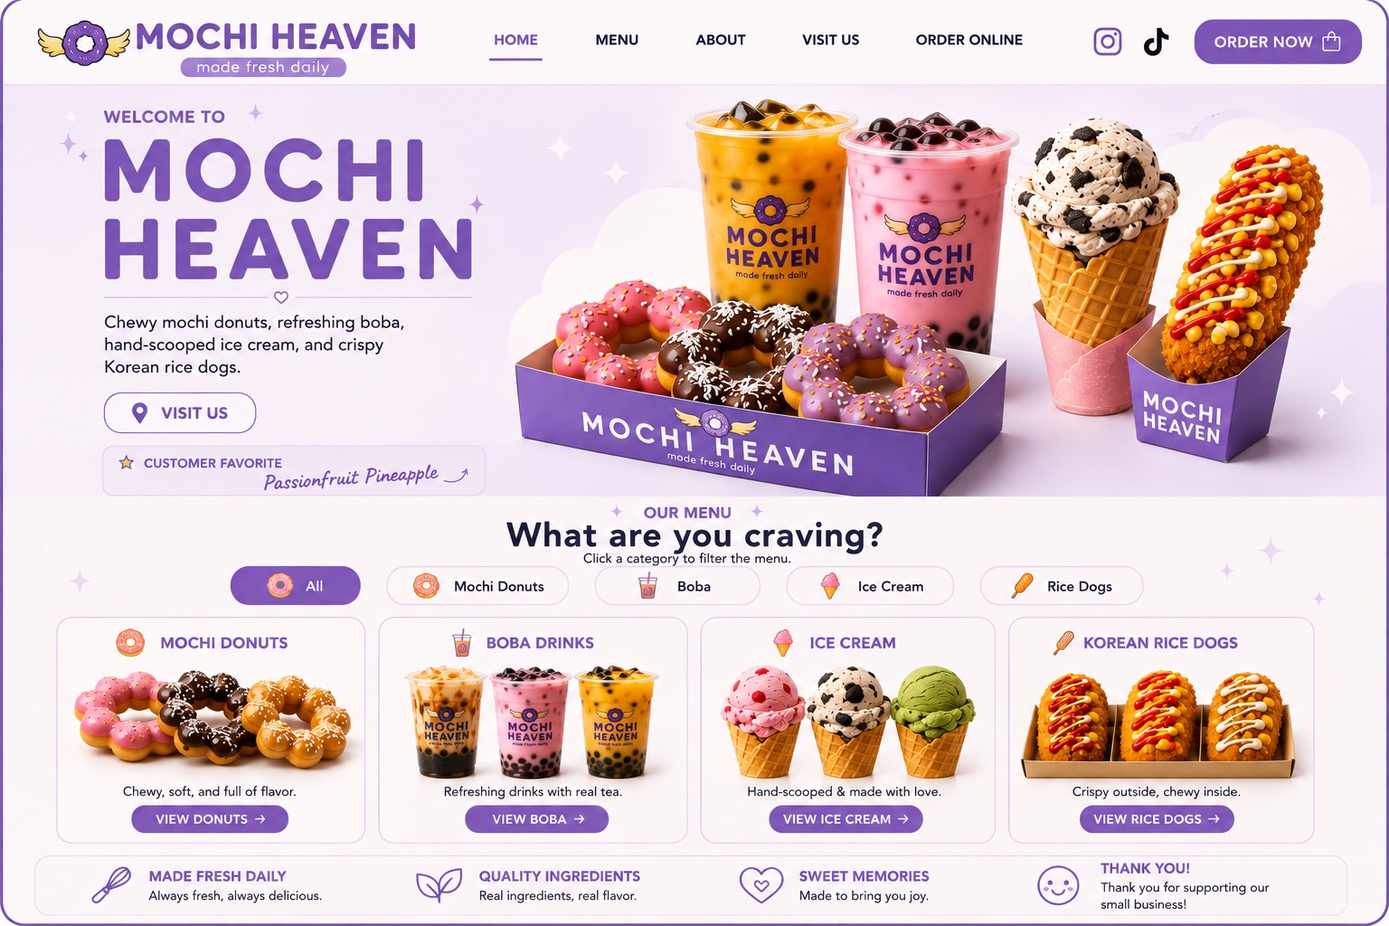
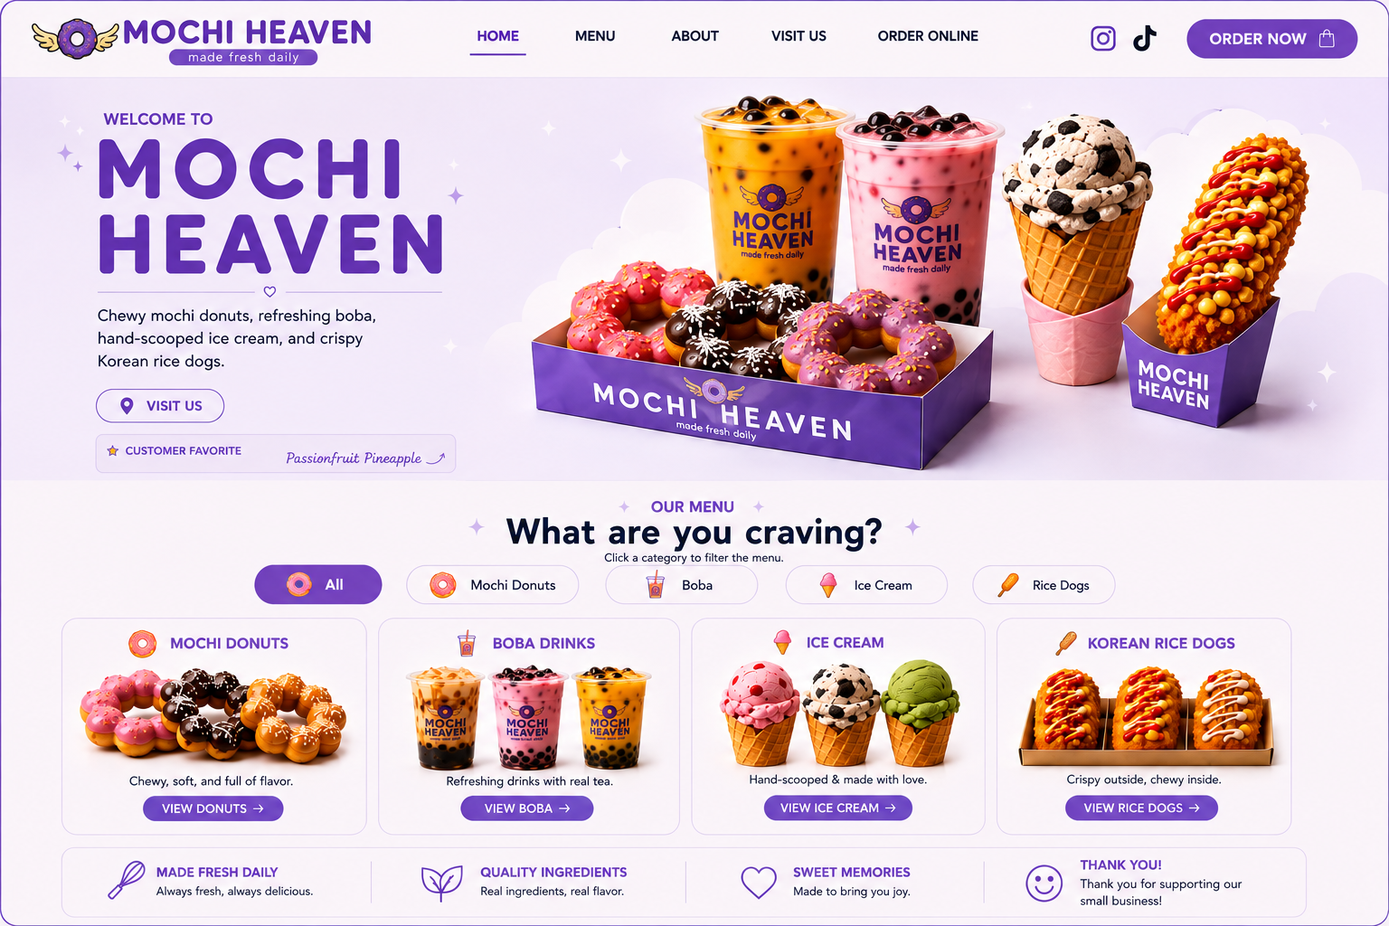
Add files via upload

diff --git a/styles.css b/styles.css
@@ -1,75 +1,10 @@
 *{box-sizing:border-box}
-html{scroll-behavior:smooth}
-body{margin:0;font-family:Arial,Helvetica,sans-serif;background:#fff;color:#211936}
-.pixel-page{width:100%;background:#f7f1ff}
-.design-wrap{position:relative;width:100%;max-width:1536px;margin:0 auto}
-.design-image{display:block;width:100%;height:auto}
-
-.hotspot{
-  position:absolute;
-  display:block;
-  border:0;
-  background:transparent;
-  padding:0;
-  margin:0;
-  cursor:pointer;
-  z-index:5;
-}
-.hotspot:focus-visible{outline:3px solid #ffcc33;outline-offset:2px;border-radius:8px}
-
-/* Top navigation */
-.home-link{left:35.2%;top:1.8%;width:6.3%;height:6.4%}
-.menu-link{left:42.2%;top:1.8%;width:6.1%;height:6.4%}
-.about-link{left:49.4%;top:1.8%;width:6.5%;height:6.4%}
-.visit-nav-link{left:57.2%;top:1.8%;width:7.4%;height:6.4%}
-.order-nav-link{left:65.4%;top:1.8%;width:10.8%;height:6.4%}
-
-/* Social + order */
-.instagram-link{left:78.1%;top:1.8%;width:3.4%;height:5.2%}
-.tiktok-link{left:81.9%;top:1.8%;width:3.2%;height:5.2%}
-.order-now-link{left:85.8%;top:1.7%;width:12.7%;height:5.6%}
-
-/* Hero Visit Us */
-.visit-hero-link{left:7.0%;top:42.0%;width:12.0%;height:5.3%}
-
-/* Category filters */
-.filter-all{left:16.3%;top:61.0%;width:9.9%;height:4.3%}
-.filter-donuts{left:27.7%;top:61.0%;width:13.5%;height:4.3%}
-.filter-boba{left:43.0%;top:61.0%;width:11.3%;height:4.3%}
-.filter-icecream{left:56.4%;top:61.0%;width:11.3%;height:4.3%}
-.filter-ricedogs{left:70.5%;top:61.0%;width:12.6%;height:4.3%}
-
-/* Menu buttons */
-.view-donuts{left:8.9%;top:87.0%;width:12.5%;height:3.8%}
-.view-boba{left:31.3%;top:87.0%;width:11.4%;height:3.8%}
-.view-icecream{left:54.5%;top:87.0%;width:12.3%;height:3.8%}
-.view-ricedogs{left:77.6%;top:87.0%;width:12.8%;height:3.8%}
-
-.content-section{padding:78px 24px;background:#fff}
-.content-section.alt{background:#f8f4ff}
-.content-card{width:min(1050px,100%);margin:0 auto}
-.content-card h2{font-size:42px;margin:0 0 12px;color:#5d35a5}
-.content-card p{font-size:18px;line-height:1.7;color:#6f6680}
-.eyebrow{font-weight:800;letter-spacing:.12em;color:#7f59c6;font-size:13px}
-.split{display:grid;grid-template-columns:1fr 1fr;gap:40px}
-.details{display:grid;grid-template-columns:1fr 1fr;gap:12px}
-.details div{border:1px solid #d8c7ef;border-radius:14px;padding:16px;display:grid;gap:4px}
-.details small{color:#7f59c6;font-weight:800}
-.real-button{border:0;border-radius:999px;padding:14px 24px;background:#7f59c6;color:#fff;font-weight:800;cursor:pointer}
-
-.modal{display:none;position:fixed;inset:0;z-index:100}
-.modal.open{display:block}
-.modal-backdrop{position:absolute;inset:0;background:rgba(32,16,60,.5);backdrop-filter:blur(4px)}
-.modal-card{position:relative;width:min(520px,calc(100% - 30px));margin:10vh auto;background:#fff;border-radius:24px;padding:30px;box-shadow:0 25px 70px rgba(20,10,40,.3)}
-.modal-close{position:absolute;right:16px;top:10px;border:0;background:transparent;font-size:32px;color:#5d35a5;cursor:pointer}
-.modal-card h2{font-size:36px;color:#5d35a5;margin:0 0 12px}
-.modal-row{display:flex;justify-content:space-between;gap:12px;padding:12px 0;border-bottom:1px solid #e4d8f7}
-
-/* Mobile: keep the exact design intact, scale it down instead of rearranging it */
-@media(max-width:760px){
-  .design-wrap{min-width:760px;transform-origin:top left}
-  .pixel-page{overflow-x:auto}
-  .content-section{padding:56px 20px}
-  .split{grid-template-columns:1fr}
-  .details{grid-template-columns:1fr}
-}
+:root{--purple:#7c55c7;--deep:#552b9f;--soft:#faf7ff;--line:#dcccf4;--ink:#211936;--muted:#70657d}
+html{scroll-behavior:smooth;scroll-padding-top:96px}body{margin:0;font-family:Arial,Helvetica,sans-serif;color:var(--ink);background:#fff}a{text-decoration:none;color:inherit}.page-shell{width:min(1180px,calc(100% - 36px));margin:auto}
+.home-body{background:#f7f1ff}.pixel-home{width:100%;overflow-x:hidden}.home-canvas{position:relative;width:100%;max-width:1536px;margin:auto}.home-image{display:block;width:100%;height:auto}.hotspot{position:absolute;z-index:5;display:block}.hotspot:focus-visible{outline:3px solid #ffc928;border-radius:8px}
+.hs-home{left:34.6%;top:2%;width:6.5%;height:6%}.hs-menu{left:42.5%;top:2%;width:6.5%;height:6%}.hs-about{left:50.2%;top:2%;width:6.7%;height:6%}.hs-visit{left:57.6%;top:2%;width:8.2%;height:6%}.hs-order-nav{left:66.3%;top:2%;width:11.2%;height:6%}.hs-instagram{left:78.2%;top:2%;width:3.2%;height:5.3%}.hs-tiktok{left:81.9%;top:2%;width:3.2%;height:5.3%}.hs-order{left:85.7%;top:1.7%;width:12.8%;height:5.8%}.hs-visit-hero{left:6.7%;top:41.4%;width:12.7%;height:5.5%}.hs-filter-all{left:18%;top:61.1%;width:9.5%;height:4.5%}.hs-filter-donuts{left:29.5%;top:61.1%;width:13.2%;height:4.5%}.hs-filter-boba{left:44.8%;top:61.1%;width:10.9%;height:4.5%}.hs-filter-icecream{left:57.3%;top:61.1%;width:12.2%;height:4.5%}.hs-filter-ricedogs{left:71.1%;top:61.1%;width:12.3%;height:4.5%}.hs-view-donuts{left:10.1%;top:86.3%;width:11.7%;height:4.2%}.hs-view-boba{left:33.2%;top:86.3%;width:11.5%;height:4.2%}.hs-view-icecream{left:56.4%;top:86.3%;width:12.4%;height:4.2%}.hs-view-ricedogs{left:78.8%;top:86.3%;width:12.6%;height:4.2%}
+.site-header{position:sticky;top:0;z-index:20;background:rgba(255,255,255,.96);backdrop-filter:blur(12px);border-bottom:1px solid var(--line)}.nav{min-height:82px;display:flex;align-items:center;justify-content:space-between;gap:24px}.text-logo{display:flex;align-items:center;gap:6px;font-weight:900;color:var(--deep);font-size:22px;letter-spacing:.04em;position:relative}.text-logo small{position:absolute;left:45px;top:47px;font-size:10px;background:var(--purple);color:#fff;padding:2px 12px;border-radius:999px}.donut-mark{color:var(--purple)}.page-nav{display:flex;gap:26px}.page-nav a{font-weight:800;font-size:14px}.page-nav a:hover{color:var(--purple)}.social-row{display:flex;align-items:center;gap:12px;font-size:23px}.purple-pill{font-size:13px;font-weight:900;text-transform:uppercase;color:#fff;background:linear-gradient(135deg,var(--purple),#925fcf);padding:12px 18px;border-radius:999px}.mobile-toggle{display:none;border:0;background:transparent;font-size:25px;color:var(--deep)}
+.menu-hero{padding:58px 0 42px;background:linear-gradient(135deg,#faf7ff,#eee4ff);text-align:center}.kicker{margin:0 0 8px;color:var(--purple);font-weight:900;letter-spacing:.12em;font-size:13px}.page-title{font-size:58px;line-height:1;margin:0 0 12px;color:var(--deep)}.page-subtitle,.page-copy{color:var(--muted);font-size:17px;line-height:1.7}.jump-nav{display:flex;justify-content:center;gap:12px;flex-wrap:wrap;margin-top:24px}.jump-nav a{border:1px solid var(--line);background:#fff;border-radius:999px;padding:11px 18px;font-weight:800}.jump-nav a:hover{background:var(--purple);color:#fff}
+.category-section{padding:70px 0;background:#fff}.category-section.tint{background:var(--soft)}.category-heading{display:flex;justify-content:space-between;align-items:end;gap:20px;margin-bottom:20px}.category-heading h2{font-size:40px;margin:0;color:var(--deep)}.category-heading>a{font-size:13px;font-weight:800;color:var(--purple)}.category-banner{width:100%;height:250px;object-fit:cover;border-radius:24px;border:1px solid var(--line);margin-bottom:24px}.product-grid{display:grid;grid-template-columns:repeat(4,1fr);gap:18px}.product-card{border:1px solid var(--line);border-radius:22px;padding:15px;background:#fff;box-shadow:0 10px 25px rgba(82,42,146,.06)}.product-card h3{margin:14px 0 5px;color:var(--deep)}.product-card p{color:var(--muted);font-size:14px;line-height:1.5;min-height:44px}.product-card strong{color:var(--purple);font-size:18px}.product-placeholder{height:170px;border-radius:16px;background:#f8e6ef;display:grid;place-items:center;color:#9d7892;font-weight:900}.product-placeholder.drink{background:#fff0d6}.product-placeholder.ice{background:#eee8ff}.product-placeholder.dog{background:#fff0db}
+.simple-page{padding:80px 0;background:linear-gradient(135deg,#faf7ff,#f1e8ff);min-height:calc(100vh - 82px)}.simple-grid{display:grid;grid-template-columns:1fr 1fr;gap:52px;align-items:center}.large-placeholder{height:420px;border:1px solid var(--line);background:#fff;border-radius:28px;display:grid;place-items:center;color:var(--muted);font-weight:900}.visit-grid{display:grid;grid-template-columns:1fr 1fr;gap:14px;margin:28px 0}.visit-detail{padding:20px;border:1px solid var(--line);background:#fff;border-radius:18px;display:grid;gap:6px}.visit-detail small{color:var(--purple);font-weight:900}.map-placeholder{height:360px;border:1px solid var(--line);border-radius:26px;background:#fff;display:grid;place-items:center;color:var(--muted);font-weight:900}
+@media(max-width:900px){.page-nav{gap:14px}.social-row>a:not(.purple-pill){display:none}.product-grid{grid-template-columns:repeat(2,1fr)}}@media(max-width:700px){.mobile-toggle{display:block}.page-nav{display:none;position:absolute;top:82px;left:12px;right:12px;background:#fff;border:1px solid var(--line);border-radius:18px;padding:18px;flex-direction:column}.page-nav.open{display:flex}.social-row{display:none}.product-grid{grid-template-columns:1fr}.category-heading{align-items:flex-start;flex-direction:column}.simple-grid{grid-template-columns:1fr}.visit-grid{grid-template-columns:1fr}.home-canvas{min-width:760px}.pixel-home{overflow-x:auto}}

diff --git a/index.html b/index.html
@@ -1,98 +1,23 @@
-<!doctype html>
-<html lang="en">
-<head>
-  <meta charset="utf-8">
-  <meta name="viewport" content="width=device-width, initial-scale=1">
-  <title>Mochi Heaven</title>
-  <meta name="description" content="Mochi Heaven | Mochi donuts, boba, ice cream, and Korean rice dogs.">
-  <link rel="stylesheet" href="styles.css">
-</head>
-<body>
-
-  <main id="home" class="pixel-page" aria-label="Mochi Heaven homepage">
-    <div class="design-wrap">
-      <img class="design-image" src="assets/homepage.png" alt="Mochi Heaven homepage">
-
-      <!-- TOP NAVIGATION -->
-      <a class="hotspot home-link" href="#home" aria-label="Home"></a>
-      <a class="hotspot menu-link" href="#menu-info" aria-label="Menu"></a>
-      <a class="hotspot about-link" href="#about" aria-label="About"></a>
-      <a class="hotspot visit-nav-link" href="#visit" aria-label="Visit Us"></a>
-      <a class="hotspot order-nav-link" href="#order" aria-label="Order Online"></a>
-
-      <!-- SOCIAL -->
-      <a class="hotspot instagram-link" href="https://instagram.com/" target="_blank" rel="noreferrer" aria-label="Instagram"></a>
-      <a class="hotspot tiktok-link" href="https://www.tiktok.com/" target="_blank" rel="noreferrer" aria-label="TikTok"></a>
-      <a class="hotspot order-now-link" href="#order" aria-label="Order Now"></a>
-
-      <!-- HERO -->
-      <a class="hotspot visit-hero-link" href="#visit" aria-label="Visit Us"></a>
-
-      <!-- CATEGORY FILTERS -->
-      <button class="hotspot filter-all" type="button" data-category="all" aria-label="All menu categories"></button>
-      <button class="hotspot filter-donuts" type="button" data-category="donuts" aria-label="Mochi Donuts"></button>
-      <button class="hotspot filter-boba" type="button" data-category="boba" aria-label="Boba"></button>
-      <button class="hotspot filter-icecream" type="button" data-category="icecream" aria-label="Ice Cream"></button>
-      <button class="hotspot filter-ricedogs" type="button" data-category="ricedogs" aria-label="Rice Dogs"></button>
-
-      <!-- VIEW MENU BUTTONS -->
-      <button class="hotspot view-donuts" type="button" data-menu="donuts" aria-label="View Donuts"></button>
-      <button class="hotspot view-boba" type="button" data-menu="boba" aria-label="View Boba"></button>
-      <button class="hotspot view-icecream" type="button" data-menu="icecream" aria-label="View Ice Cream"></button>
-      <button class="hotspot view-ricedogs" type="button" data-menu="ricedogs" aria-label="View Rice Dogs"></button>
-    </div>
-  </main>
-
-  <section class="content-section" id="menu-info">
-    <div class="content-card">
-      <p class="eyebrow">OUR MENU</p>
-      <h2>Full Menu</h2>
-      <p>This section is ready for the complete Mochi Heaven menu. The homepage above stays visually identical to your design.</p>
-    </div>
-  </section>
-
-  <section class="content-section alt" id="about">
-    <div class="content-card">
-      <p class="eyebrow">ABOUT MOCHI HEAVEN</p>
-      <h2>Sweet treats, all in one place.</h2>
-      <p>Add your real Mochi Heaven story here.</p>
-    </div>
-  </section>
-
-  <section class="content-section" id="visit">
-    <div class="content-card split">
-      <div>
-        <p class="eyebrow">VISIT US</p>
-        <h2>Come grab a treat.</h2>
-        <p>Replace these placeholders with the actual store details.</p>
-      </div>
-      <div class="details">
-        <div><small>ADDRESS</small><strong>Your store address</strong></div>
-        <div><small>HOURS</small><strong>Your store hours</strong></div>
-        <div><small>PHONE</small><strong>Your phone number</strong></div>
-        <div><small>WEBSITE</small><strong>trymochiheaven.com</strong></div>
-      </div>
-    </div>
-  </section>
-
-  <section class="content-section alt" id="order">
-    <div class="content-card">
-      <p class="eyebrow">ORDER ONLINE</p>
-      <h2>Ready when you are.</h2>
-      <button class="real-button" id="startOrder">Start Order</button>
-    </div>
-  </section>
-
-  <div class="modal" id="menuModal" aria-hidden="true">
-    <div class="modal-backdrop" data-close></div>
-    <div class="modal-card" role="dialog" aria-modal="true">
-      <button class="modal-close" data-close aria-label="Close">×</button>
-      <p class="eyebrow">MOCHI HEAVEN MENU</p>
-      <h2 id="modalTitle"></h2>
-      <div id="modalItems"></div>
-    </div>
-  </div>
-
-  <script src="script.js"></script>
-</body>
-</html>
+<!doctype html><html><head><meta charset="utf-8"><meta name="viewport" content="width=device-width,initial-scale=1"><title>Mochi Heaven</title><link rel="stylesheet" href="styles.css"></head>
+<body class="home-body">
+<main class="pixel-home"><div class="home-canvas">
+<img src="assets/homepage.png" class="home-image" alt="Mochi Heaven homepage">
+<a class="hotspot hs-home" href="index.html"></a>
+<a class="hotspot hs-menu" href="menu.html"></a>
+<a class="hotspot hs-about" href="about.html"></a>
+<a class="hotspot hs-visit" href="visit.html"></a>
+<a class="hotspot hs-order-nav" href="#" data-order></a>
+<a class="hotspot hs-instagram" href="https://instagram.com/" target="_blank"></a>
+<a class="hotspot hs-tiktok" href="https://www.tiktok.com/" target="_blank"></a>
+<a class="hotspot hs-order" href="#" data-order></a>
+<a class="hotspot hs-visit-hero" href="visit.html"></a>
+<a class="hotspot hs-filter-all" href="menu.html"></a>
+<a class="hotspot hs-filter-donuts" href="menu.html#donuts"></a>
+<a class="hotspot hs-filter-boba" href="menu.html#boba"></a>
+<a class="hotspot hs-filter-icecream" href="menu.html#icecream"></a>
+<a class="hotspot hs-filter-ricedogs" href="menu.html#ricedogs"></a>
+<a class="hotspot hs-view-donuts" href="menu.html#donuts"></a>
+<a class="hotspot hs-view-boba" href="menu.html#boba"></a>
+<a class="hotspot hs-view-icecream" href="menu.html#icecream"></a>
+<a class="hotspot hs-view-ricedogs" href="menu.html#ricedogs"></a>
+</div></main><script src="script.js"></script></body></html>

diff --git a/menu.html b/menu.html
@@ -1,0 +1,35 @@
+<!doctype html><html><head><meta charset="utf-8"><meta name="viewport" content="width=device-width,initial-scale=1"><title>Menu | Mochi Heaven</title><link rel="stylesheet" href="styles.css"></head><body>
+<header class="site-header"><div class="page-shell nav">
+<a class="text-logo" href="index.html"><span class="donut-mark">◉</span><span>MOCHI HEAVEN</span><small>made fresh daily</small></a>
+<button class="mobile-toggle">☰</button>
+<nav class="page-nav"><a href="index.html">Home</a><a href="menu.html">Menu</a><a href="about.html">About</a><a href="visit.html">Visit Us</a><a href="#" data-order>Order Online</a></nav>
+<div class="social-row"><a href="https://instagram.com/" target="_blank">◎</a><a href="https://www.tiktok.com/" target="_blank">♪</a><a class="purple-pill" href="#" data-order>Order Now</a></div>
+</div></header>
+<main id="top">
+<section class="menu-hero"><div class="page-shell"><p class="kicker">MOCHI HEAVEN</p><h1 class="page-title">Our Menu</h1><p class="page-subtitle">Choose a category or scroll through everything.</p>
+<nav class="jump-nav"><a href="#donuts">Mochi Donuts</a><a href="#boba">Boba</a><a href="#icecream">Ice Cream</a><a href="#ricedogs">Korean Rice Dogs</a></nav></div></section>
+<section class="category-section" id="donuts"><div class="page-shell"><div class="category-heading"><div><p class="kicker">🍩 MOCHI DONUTS</p><h2>Soft, chewy, colorful.</h2></div><a href="#top">Back to menu ↑</a></div><img class="category-banner" src="assets/donuts.jpg"><div class="product-grid">
+<article class="product-card"><div class="product-placeholder">ADD PHOTO</div><h3>Strawberry</h3><p>Strawberry glaze with sprinkles.</p><strong>$0.00</strong></article>
+<article class="product-card"><div class="product-placeholder">ADD PHOTO</div><h3>Chocolate</h3><p>Chocolate glaze with toppings.</p><strong>$0.00</strong></article>
+<article class="product-card"><div class="product-placeholder">ADD PHOTO</div><h3>Ube</h3><p>Sweet purple ube glaze.</p><strong>$0.00</strong></article>
+<article class="product-card"><div class="product-placeholder">ADD PHOTO</div><h3>Seasonal Flavor</h3><p>Replace with your current flavor.</p><strong>$0.00</strong></article>
+</div></div></section>
+<section class="category-section tint" id="boba"><div class="page-shell"><div class="category-heading"><div><p class="kicker">🧋 BOBA DRINKS</p><h2>Refreshing drinks made your way.</h2></div><a href="#top">Back to menu ↑</a></div><img class="category-banner" src="assets/boba.jpg"><div class="product-grid">
+<article class="product-card"><div class="product-placeholder drink">ADD PHOTO</div><h3>Brown Sugar Milk Tea</h3><p>Classic milk tea with brown sugar and boba.</p><strong>$0.00</strong></article>
+<article class="product-card"><div class="product-placeholder drink">ADD PHOTO</div><h3>Passionfruit Pineapple</h3><p>Bright tropical fruit tea.</p><strong>$0.00</strong></article>
+<article class="product-card"><div class="product-placeholder drink">ADD PHOTO</div><h3>Mango Slushy</h3><p>Frozen mango slushy.</p><strong>$0.00</strong></article>
+<article class="product-card"><div class="product-placeholder drink">ADD PHOTO</div><h3>Milk Tea</h3><p>Add your milk tea flavor here.</p><strong>$0.00</strong></article>
+</div></div></section>
+<section class="category-section" id="icecream"><div class="page-shell"><div class="category-heading"><div><p class="kicker">🍦 ICE CREAM</p><h2>Scoops, sundaes, shakes and more.</h2></div><a href="#top">Back to menu ↑</a></div><img class="category-banner" src="assets/icecream.jpg"><div class="product-grid">
+<article class="product-card"><div class="product-placeholder ice">ADD PHOTO</div><h3>1 Scoop</h3><p>Choose one ice cream flavor.</p><strong>$0.00</strong></article>
+<article class="product-card"><div class="product-placeholder ice">ADD PHOTO</div><h3>2 Scoops</h3><p>Choose two ice cream flavors.</p><strong>$0.00</strong></article>
+<article class="product-card"><div class="product-placeholder ice">ADD PHOTO</div><h3>Sundae</h3><p>Ice cream plus your favorite toppings.</p><strong>$0.00</strong></article>
+<article class="product-card"><div class="product-placeholder ice">ADD PHOTO</div><h3>Shake</h3><p>Thick, cold, and made to order.</p><strong>$0.00</strong></article>
+</div></div></section>
+<section class="category-section tint" id="ricedogs"><div class="page-shell"><div class="category-heading"><div><p class="kicker">🌭 KOREAN RICE DOGS</p><h2>Crispy outside, chewy inside.</h2></div><a href="#top">Back to menu ↑</a></div><img class="category-banner" src="assets/ricedogs.jpg"><div class="product-grid">
+<article class="product-card"><div class="product-placeholder dog">ADD PHOTO</div><h3>Classic Rice Dog</h3><p>Add filling details here.</p><strong>$0.00</strong></article>
+<article class="product-card"><div class="product-placeholder dog">ADD PHOTO</div><h3>Potato Rice Dog</h3><p>Crispy potato-coated rice dog.</p><strong>$0.00</strong></article>
+<article class="product-card"><div class="product-placeholder dog">ADD PHOTO</div><h3>Cheetos Rice Dog</h3><p>Cheetos coating with your choice of filling.</p><strong>$0.00</strong></article>
+<article class="product-card"><div class="product-placeholder dog">ADD PHOTO</div><h3>Specialty Rice Dog</h3><p>Replace with another menu item.</p><strong>$0.00</strong></article>
+</div></div></section>
+</main><script src="script.js"></script></body></html>

diff --git a/script.js b/script.js
@@ -1,61 +1,3 @@
-const menuData = {
-  donuts: {
-    title: "Mochi Donuts",
-    items: [["Single Mochi Donut","$0.00"],["Half Dozen","$0.00"],["Dozen","$0.00"]]
-  },
-  boba: {
-    title: "Boba Drinks",
-    items: [["Milk Tea","$0.00"],["Fruit Tea","$0.00"],["Mango Slushy","$0.00"],["Passionfruit Pineapple","$0.00"]]
-  },
-  icecream: {
-    title: "Ice Cream",
-    items: [["1 Scoop","$0.00"],["2 Scoops","$0.00"],["3 Scoops","$0.00"],["Sundaes & Shakes","$0.00"]]
-  },
-  ricedogs: {
-    title: "Korean Rice Dogs",
-    items: [["Classic Rice Dog","$0.00"],["Potato Rice Dog","$0.00"],["Cheetos Rice Dog","$0.00"]]
-  }
-};
-
-const modal = document.getElementById("menuModal");
-const title = document.getElementById("modalTitle");
-const items = document.getElementById("modalItems");
-
-function openMenu(type) {
-  const data = menuData[type];
-  title.textContent = data.title;
-  items.innerHTML = data.items.map(item =>
-    `<div class="modal-row"><strong>${item[0]}</strong><span>${item[1]}</span></div>`
-  ).join("");
-  modal.classList.add("open");
-  modal.setAttribute("aria-hidden","false");
-  document.body.style.overflow = "hidden";
-}
-
-document.querySelectorAll("[data-menu]").forEach(btn => {
-  btn.addEventListener("click", () => openMenu(btn.dataset.menu));
-});
-
-document.querySelectorAll("[data-category]").forEach(btn => {
-  btn.addEventListener("click", () => {
-    const category = btn.dataset.category;
-    if (category === "all") {
-      document.getElementById("menu-info").scrollIntoView({behavior:"smooth"});
-    } else {
-      openMenu(category);
-    }
-  });
-});
-
-function closeModal() {
-  modal.classList.remove("open");
-  modal.setAttribute("aria-hidden","true");
-  document.body.style.overflow = "";
-}
-
-document.querySelectorAll("[data-close]").forEach(el => el.addEventListener("click", closeModal));
-document.addEventListener("keydown", e => { if (e.key === "Escape") closeModal(); });
-
-document.getElementById("startOrder").addEventListener("click", () => {
-  alert("Replace this with Mochi Heaven's real online ordering link.");
-});
+document.querySelectorAll('[data-order]').forEach(el=>el.addEventListener('click',e=>{e.preventDefault();alert("Replace this with Mochi Heaven's real online ordering link.");}));
+const t=document.querySelector('.mobile-toggle'),n=document.querySelector('.page-nav');if(t&&n)t.addEventListener('click',()=>n.classList.toggle('open'));
+if(location.hash){requestAnimationFrame(()=>{const x=document.querySelector(location.hash);if(x)setTimeout(()=>x.scrollIntoView({behavior:'smooth',block:'start'}),120);});}

diff --git a/visit.html b/visit.html
@@ -1,0 +1,6 @@
+<!doctype html><html><head><meta charset="utf-8"><meta name="viewport" content="width=device-width,initial-scale=1"><title>Visit Us | Mochi Heaven</title><link rel="stylesheet" href="styles.css"></head><body><header class="site-header"><div class="page-shell nav">
+<a class="text-logo" href="index.html"><span class="donut-mark">◉</span><span>MOCHI HEAVEN</span><small>made fresh daily</small></a>
+<button class="mobile-toggle">☰</button>
+<nav class="page-nav"><a href="index.html">Home</a><a href="menu.html">Menu</a><a href="about.html">About</a><a href="visit.html">Visit Us</a><a href="#" data-order>Order Online</a></nav>
+<div class="social-row"><a href="https://instagram.com/" target="_blank">◎</a><a href="https://www.tiktok.com/" target="_blank">♪</a><a class="purple-pill" href="#" data-order>Order Now</a></div>
+</div></header><main class="simple-page"><div class="page-shell"><p class="kicker">VISIT MOCHI HEAVEN</p><h1 class="page-title">Come grab a treat.</h1><div class="visit-grid"><div class="visit-detail"><small>ADDRESS</small><strong>Your store address</strong></div><div class="visit-detail"><small>HOURS</small><strong>Your store hours</strong></div><div class="visit-detail"><small>PHONE</small><strong>Your phone number</strong></div><div class="visit-detail"><small>WEBSITE</small><strong>trymochiheaven.com</strong></div></div><div class="map-placeholder">MAP / STORE PHOTO</div></div></main><script src="script.js"></script></body></html>

diff --git a/about.html b/about.html
@@ -1,0 +1,6 @@
+<!doctype html><html><head><meta charset="utf-8"><meta name="viewport" content="width=device-width,initial-scale=1"><title>About | Mochi Heaven</title><link rel="stylesheet" href="styles.css"></head><body><header class="site-header"><div class="page-shell nav">
+<a class="text-logo" href="index.html"><span class="donut-mark">◉</span><span>MOCHI HEAVEN</span><small>made fresh daily</small></a>
+<button class="mobile-toggle">☰</button>
+<nav class="page-nav"><a href="index.html">Home</a><a href="menu.html">Menu</a><a href="about.html">About</a><a href="visit.html">Visit Us</a><a href="#" data-order>Order Online</a></nav>
+<div class="social-row"><a href="https://instagram.com/" target="_blank">◎</a><a href="https://www.tiktok.com/" target="_blank">♪</a><a class="purple-pill" href="#" data-order>Order Now</a></div>
+</div></header><main class="simple-page"><div class="page-shell simple-grid"><div><p class="kicker">ABOUT MOCHI HEAVEN</p><h1 class="page-title">A little shop with a lot to love.</h1><p class="page-copy">Add the real Mochi Heaven story here.</p></div><div class="large-placeholder">ADD STORE OR TEAM PHOTO</div></div></main><script src="script.js"></script></body></html>
